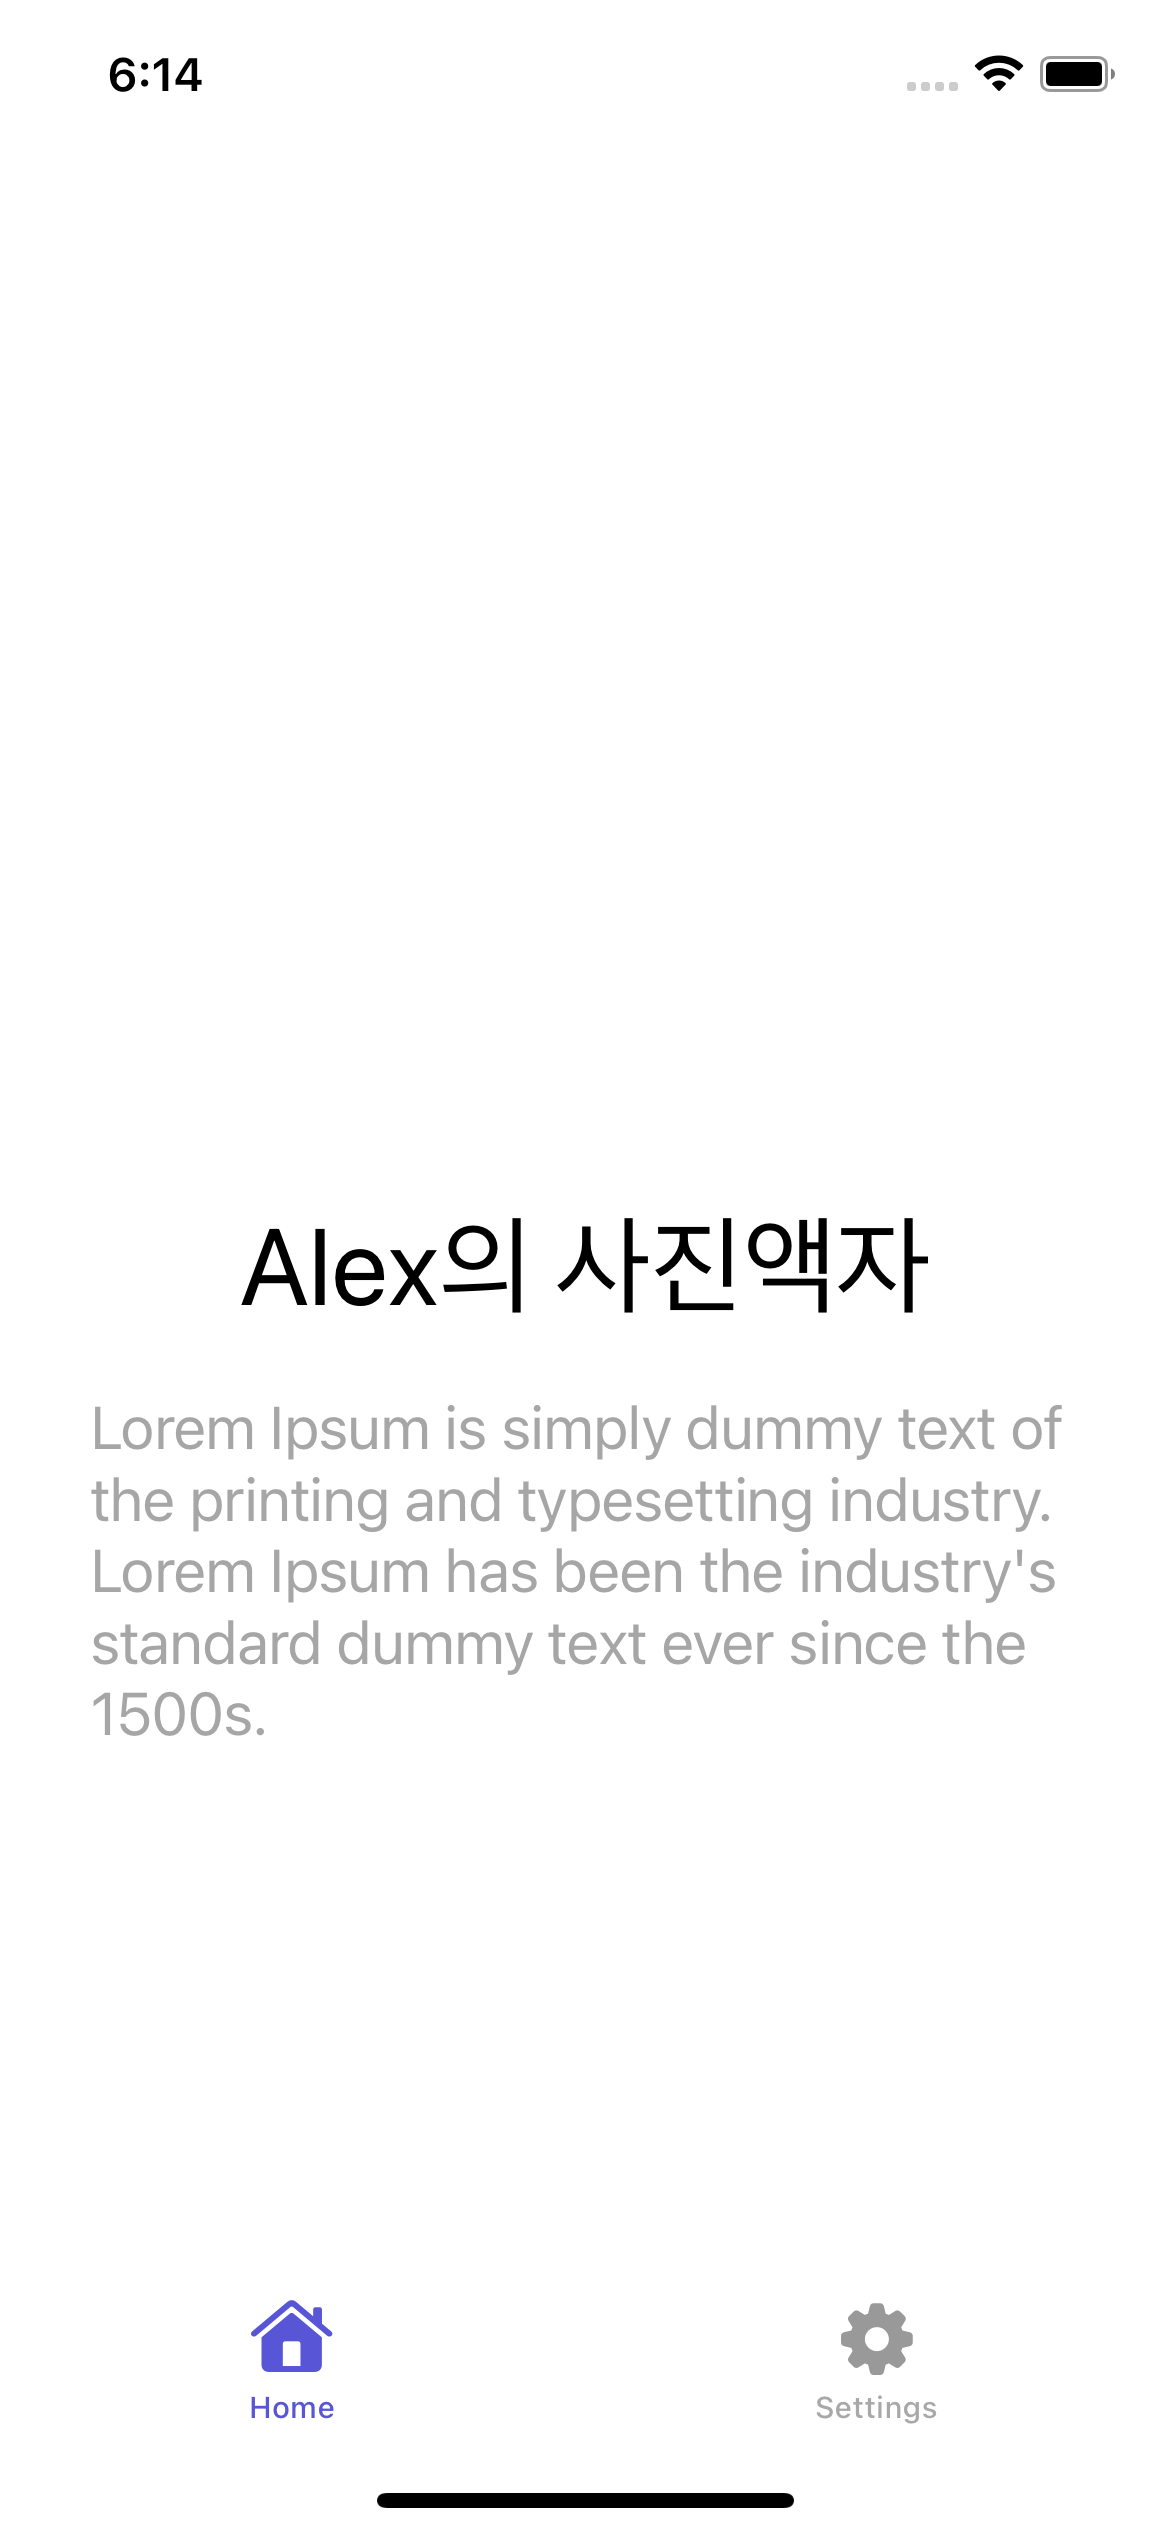
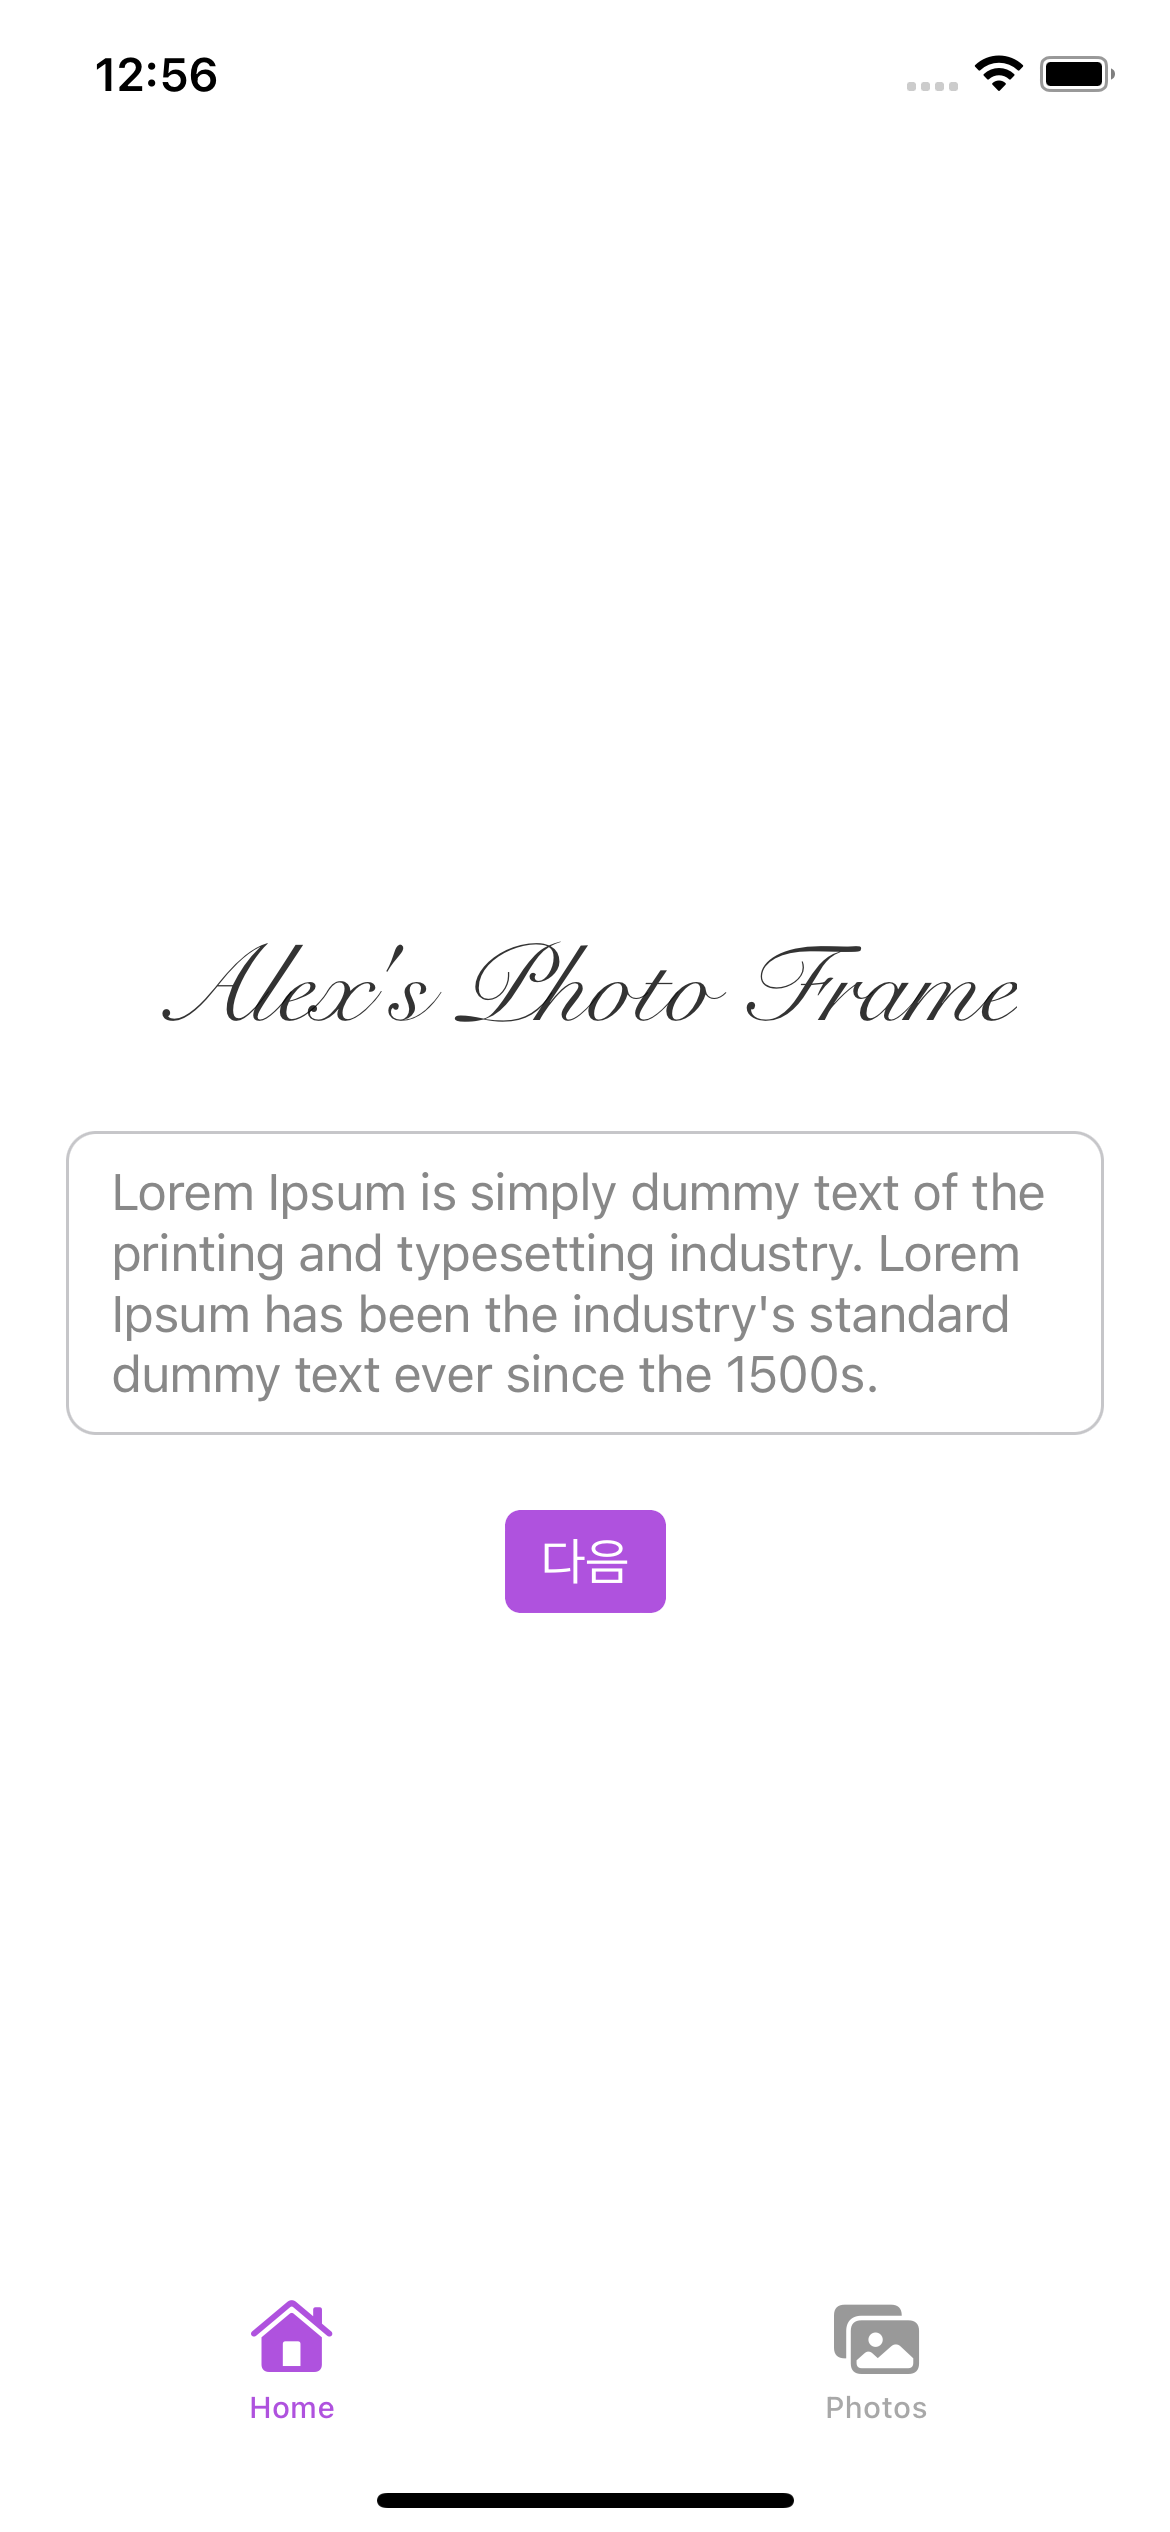
refactor: Replace step2.png with new one

diff --git a/PhotoFrame/PhotoFrame/FirstViewController.swift b/PhotoFrame/PhotoFrame/FirstViewController.swift
@@ -16,6 +16,7 @@ class FirstViewController: UIViewController {
         super.viewDidLoad()
         self.photoLabel.text = "Alex's Photo Frame"
         self.photoLabel.font = UIFont(name: "SnellRoundhand", size: 36)
+        UIFont(
         self.photoLabel.textColor = self.photoLabel.textColor.withAlphaComponent(0.8)
     }
     
